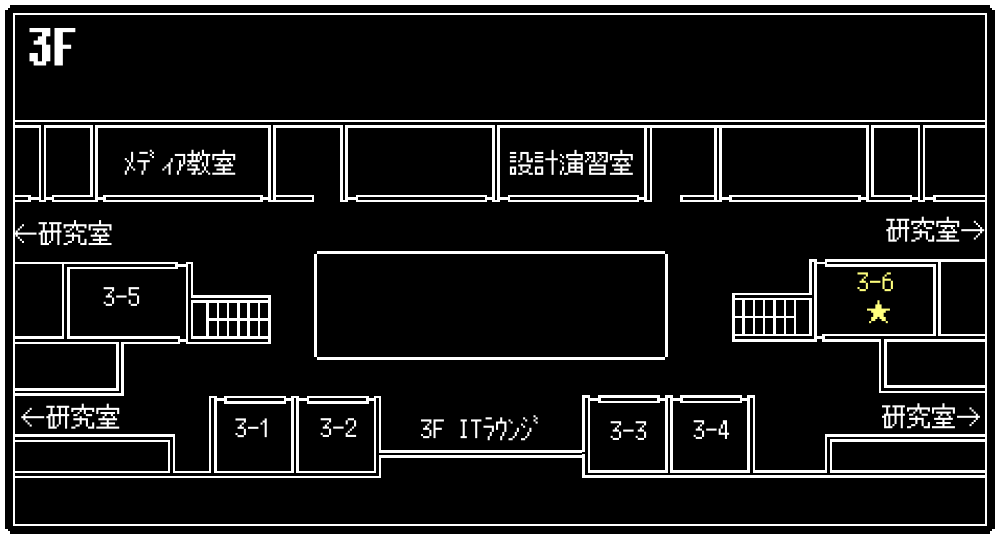
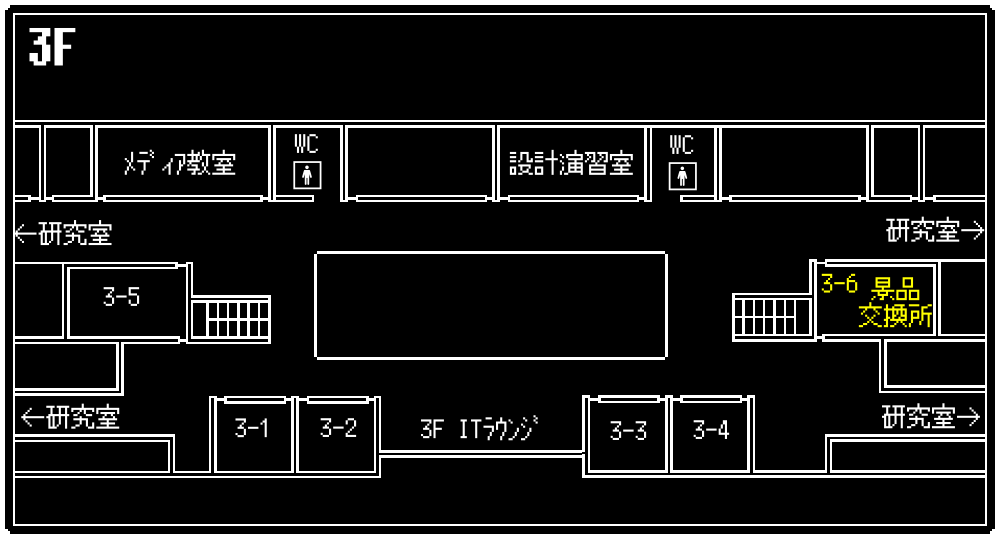
文字色の修正、マップ画像の改善、レスポンシブデザイン化

Changed region(s): [[0.806, 0.5046, 0.93, 0.6234], [0.651, 0.2375, 0.713, 0.3562], [0.279, 0.2375, 0.341, 0.3562]]

diff --git a/index.html b/index.html
@@ -7,40 +7,46 @@
     <title>キャラクターハンティング</title>
     <link href="style.css" rel="stylesheet" type="text/css">
     <!-- Lightbox2  -->
+    <!-- 
     <link href="https://cdnjs.cloudflare.com/ajax/libs/lightbox2/2.7.1/css/lightbox.css" rel="stylesheet">
     <script src="https://code.jquery.com/jquery-1.12.4.min.js" type="text/javascript"></script>
     <script src="https://cdnjs.cloudflare.com/ajax/libs/lightbox2/2.7.1/js/lightbox.min.js" type="text/javascript"></script>
+    -->
 </head>
 <body>
-    <div id="TitleDiv">
-        <h1>クラス企画名(仮)</h1>
-        <h3>2022.10.30-2022.10.31</h3>
-    </div>
-    <h2>参加方法</h2>
-    <ol id="List">
-       <li>台紙を受け取る</li>
-       <li>コスプレした人から台紙にスタンプをもらう→<a href="#cosplayer">対象キャラクター</a></li>
-       <li>3-6講義室にてスタンプを集めた台紙と景品を交換→<a href="#map">Map</a></li>
-    </ol>
+    <div id="view"><div id="main">
 
-    <h2>景品</h2>
-    スタンプの数が3個、5個、10個でそれぞれ景品をGet<br>
-    スタンプ全コンプリート報酬もあるよ！
-    <p>※景品の交換は〇:○○～〇:○○</p>
+        <div id="TitleDiv">
+                <h1>クラス企画名(仮)</h1>
+                <h3>2022.10.30-2022.10.31</h3>
+        </div>
+        <h2>参加方法</h2>
+        <ol id="List">
+           <li>台紙を受け取る</li>
+           <li>コスプレした人から台紙にスタンプをもらう→<a href="#cosplayer">対象キャラクター</a></li>
+           <li><span id="keyword">3-6講義室</span>にてスタンプを集めた台紙と景品を交換→<a href="#map">Map</a></li>
+        </ol>
 
-    <h2 id="cosplayer">対象キャラクター</h2>
-    <ul>
-        <li>キャラクター名(登場作品)</li>
-        <li>キャラクター名(登場作品)</li>
-        <li>キャラクター名(登場作品)</li>
-        <li>キャラクター名(登場作品)</li>
-        <li>キャラクター名(登場作品)</li>
-        <li>キャラクター名(登場作品)</li>
-    </ul>
+        <h2>景品</h2>
+        スタンプの数が3個、5個、10個でそれぞれ景品をGet<br>
+        スタンプ全コンプリート報酬もあるよ！
+        <p>※景品の交換は〇:○○～〇:○○</p>
+
+        <h2 id="cosplayer">対象キャラクター</h2>
+        <ul>
+            <li>キャラクター名(登場作品)</li>
+            <li>キャラクター名(登場作品)</li>
+            <li>キャラクター名(登場作品)</li>
+            <li>キャラクター名(登場作品)</li>
+            <li>キャラクター名(登場作品)</li>
+            <li>キャラクター名(登場作品)</li>
+        </ul>
     
-    <h2 id="map">Map</h2>
-    <p>タップで画像を拡大</p>
-    <a href="Map3F.png" data-lightbox="Map" data-title="画像を拡大">
-    <img src="Map3F.png" alt="沖縄高専3階の簡易地図"></a>
+        <h2 id="map">Map</h2>
+        <!-- <p>タップで画像を拡大</p> 
+        <a href="Map3F.png" data-lightbox="Map" data-title="画像を拡大">
+        <img src="Map3F.png" alt="沖縄高専3階の簡易地図"></a>-->
+        <img src="Map3F.png" alt="沖縄高専3階の簡易地図">
+    </div></div>
 </body>
 </html>
